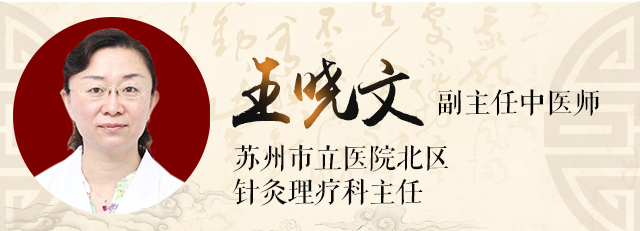
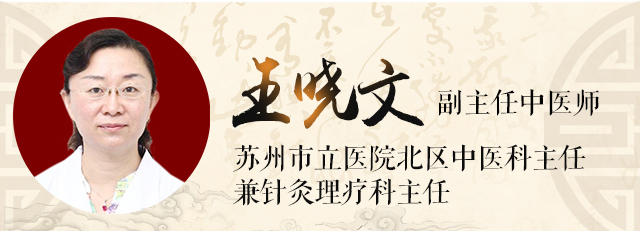
10/10

Changed region(s): [[0.3438, 0.7576, 0.7188, 0.9091], [0.6875, 0.6364, 0.9062, 0.7576]]

diff --git a/zt/1018gf/zj.js b/zt/1018gf/zj.js
@@ -14,10 +14,10 @@ var profile = [
     pinyin: 'wangqingcai',
     name: '王庆才',
     title: '主任中医师',
-    hospital: '苏州大学附属第一医院肿瘤科主任',
+    hospital: '苏州大学附属第一医院肿瘤科原主任',
     skilled: '擅长：恶性肿瘤的中西医结合临床治疗及研究工作。',
     sSkilled: '擅长：恶性肿瘤的中西医结合临床治疗及研究工作',
-    profile: '从医三十余年，兼任中华中医药学会肿瘤专业委员会委员；江苏省中医药学会第七、八届理事会理事；江苏省中医药学会肿瘤专业委员会副主任委员，常务委员；中华医学会江苏分会第四、五届肿瘤专业委员会委员；苏州市医学会肿瘤专业委员会主任委员；苏州市中医学会肿瘤专业委员会主任委员等职。',
+    profile: '从医五十余年，兼任中华中医药学会肿瘤专业委员会委员；江苏省中医药学会第七、八届理事会理事；江苏省中医药学会肿瘤专业委员会副主任委员，常务委员；中华医学会江苏分会第四、五届肿瘤专业委员会委员；苏州市医学会肿瘤专业委员会主任委员；苏州市中医学会肿瘤专业委员会主任委员等职。',
 	time:[{day:'10-18',slot:'上午'}]
   },
   {
@@ -41,20 +41,10 @@ var profile = [
 	time:[{day:'10-18',slot:'上午'}]
   },
   {
-    pinyin: 'wanghaijuan',
-    name: '王海娟',
-    title: '副主任中医师',
-    hospital: '苏州市立医院北区中医内科',
-    skilled: '擅长：运用中医传统与现代医学相结合，诊治消化系、生殖系、呼吸系疾病，对妇科病、老年病、失眠症及中医养生等有较深的造诣。',
-    sSkilled: '擅长：运用中医传统与现代医学相结合，诊治消化系、生殖系、呼吸系疾病，对妇科病、老年病、失眠症及中医养生等有较深的造诣',
-    profile: '毕业于南京中医学院，从事中医专业近四十年。',
-	time:[{day:'10-18',slot:'上午'}]
-  },
-  {
     pinyin: 'qianjun',
     name: '钱军',
     title: '主任医师/教授/硕导',
-    hospital: '江苏省中医院肿瘤科',
+    hospital: '江苏省中医院肿瘤科主任',
     skilled: '擅长：恶性肿瘤的内科治疗，尤其是消化系统肿瘤、乳腺癌和肺癌的中西医结合治疗和恶性肿瘤的放化疗同步治疗。',
     sSkilled: '擅长：恶性肿瘤的内科治疗，尤其是消化系统肿瘤、乳腺癌和肺癌的中西医结合治疗和恶性肿瘤的放化疗同步治疗',
     profile: '毕业于南京大学医学院和南京中医药大学，哈佛医学院访问学者。从事临床肿瘤学医教研工作26年，专业学术期刊发表学术论文近70篇，参与编写专著5部，主持省部级课题7项；江苏省六大人才高峰培养对象，南京军区卫生122工程培养对象和市级卫生重点人才。',
@@ -70,6 +60,16 @@ var profile = [
     profile: '上海市名老中医柏连松教授继承人；上海市名老中医肛肠工作室成员；上海市中医学会肛肠分会副主任委员；《上海市中医病症诊疗常规》编写成员。',
 	time:[{day:'10-18',slot:'上午'}]
   },
+    {
+    pinyin: 'wangyue',
+    name: '王跃',
+    title: '主任中医师',
+    hospital: '孟河医派传承人/南京中医药大学兼职教授',
+    skilled: '擅长：各种内科复杂病症及呼吸系统病症的中西医诊疗，尤其对顽固性咳嗽、支气管哮喘、支气管扩张、肺心病、肺间质纤维化等复杂性肺系疑难病症有深刻的研究，并善于运用中医药膏方治疗名种内科杂病、手术后康复、亚健康状态及肿瘤病人的调理。',
+    sSkilled: '擅长：各种内科复杂病症及呼吸系统病症的中西医诊疗，尤其对顽固性咳嗽、支气管哮喘、支气管扩张、肺心病、肺间质纤维化等复杂性肺系疑难病症有深刻的研究，并善于运用中医药膏方治疗名种内科杂病、手术后康复、亚健康状态及肿瘤病人的调理',
+    profile: '师从徐苇江、何宇林先生，后进入南京中医药大学本科、研究生班学习，并在南京鼓楼医院肺科进修一年。长期在市区二级中医医院工作，曾担任内科主任、业务院长、院长，江苏省中医药学会及中西医学会理事、江苏省中医药学会肺系疾病专业委员会常委、市区医学会及中医药学会副会长等职。',
+	time:[{day:'10-18',slot:'上午'}]
+  },
   {
     pinyin: 'zhuxiongxiong',
     name: '朱雄雄',
@@ -81,16 +81,6 @@ var profile = [
 	time:[{day:'10-18',slot:'上午'},{day:'10-25',slot:'下午'}]
   },
   {
-    pinyin: 'wangyue',
-    name: '王跃',
-    title: '主任中医师',
-    hospital: '孟河医派传承人/南京中医药大学兼职教授',
-    skilled: '擅长：各种内科复杂病症及呼吸系统病症的中西医诊疗，尤其对顽固性咳嗽、支气管哮喘、支气管扩张、肺心病、肺间质纤维化等复杂性肺系疑难病症有深刻的研究，并善于运用中医药膏方治疗名种内科杂病、手术后康复、亚健康状态及肿瘤病人的调理。',
-    sSkilled: '擅长：各种内科复杂病症及呼吸系统病症的中西医诊疗，尤其对顽固性咳嗽、支气管哮喘、支气管扩张、肺心病、肺间质纤维化等复杂性肺系疑难病症有深刻的研究，并善于运用中医药膏方治疗名种内科杂病、手术后康复、亚健康状态及肿瘤病人的调理',
-    profile: '师从徐苇江、何宇林先生，后进入南京中医药大学本科、研究生班学习，并在南京鼓楼医院肺科进修一年。长期在市区二级中医医院工作，曾担任内科主任、业务院长、院长，江苏省中医药学会及中西医学会理事、江苏省中医药学会肺系疾病专业委员会常委、市区医学会及中医药学会副会长等职。',
-	time:[{day:'10-18',slot:'上午'}]
-  },
-  {
     pinyin: 'fuhong',
     name: '符红',
     title: '主任中医师',
@@ -100,26 +90,37 @@ var profile = [
     profile: '南京中医药大学兼职副教授，江苏省中医药学会儿科专业荣誉副主任委员，苏州市中医药学会儿科专业委员会副主任委员。',
 	time:[{day:'10-18',slot:'上午'}]
   },
+    {
+    pinyin: 'feimei',
+    name: '费梅',
+    title: '主任中医师/硕导',
+    hospital: '苏大附一院中西医结合科主任',
+    skilled: '擅长：肾脏病、免疫病以及消化、肿瘤疾病的中西医结合诊治。',
+    sSkilled: '擅长：肾脏病、免疫病以及消化、肿瘤疾病的中西医结合诊治',
+    profile: '苏州大学附属第一医院中西医结合科主任, 苏州大学第一临床医学院中医学教研室副主任(主持),江苏省优秀中青年中医临床人才。中华中医药学会综合医院中医药工作委员会委员，江苏省中西医结合学会理事，江苏省中西医结合学会肾脏病专业委员会委员，江苏省中医药学会内科专业委员会委员。主持江苏省中医药管理局、苏州市科技局课题三项，参与国家十一五课题、省课题四项，主持肾脏病研究获苏州市新技术引进一等奖。',
+	time:[{day:'10-18',slot:'上午'}]
+  },
+    {
+    pinyin: 'gubolin',
+    name: '顾伯林',
+    title: '副主任医师',
+    hospital: '苏大附二院中医科主任',
+    skilled: '擅长：中医治疗癫病、头痛、儿童多动症，肝胆病、哮喘等及肿瘤的中医调养。',
+    sSkilled: '擅长：中医治疗癫病、头痛、儿童多动症，肝胆病、哮喘等',
+    profile: '江苏省中医脑病专业委员会常务委员。从事中医临床工作二十年来，运用中医中药治疗脾胃病、肝胆病、哮喘等疗效显著；对于肿瘤病、血液病放化疗后的中医药调养，有较深的研究；近来运用现代康复技术结合传统中医药方法，对外伤术后、中风后遗症、糖尿病等康复，取得良好疗效。',
+	time:[{day:'10-18',slot:'上午'}]
+  },
   {
     pinyin: 'zhangling',
     name: '张玲',
     title: '主任中医师',
-    hospital: '苏大附一院中西医结合科副主任',
+    hospital: '苏大附一院中西医结合科',
     skilled: '擅长：妇科病、肾脏病、免疫病、肿瘤疾病的中西医结合诊治。',
     sSkilled: '擅长：妇科病、肾脏病、免疫病、肿瘤疾病的中西医结合诊治',
     profile: '苏州市首批中西医结合名医、国家卫生产业联合会亚健康专业委员会常务理事、中华中医药学会亚健康分会第三、四届委员会委员、江苏省中医肾病专业委员会委员、江苏省中西医结合妇产科专业委员会委员、苏州市养生专业委员会副主任委员。参加国家自然基金课题，国家中医药科研项目以及省市级临床科研课题，编写专著五部，获江苏省中医药科技进步奖和苏州市科技进步奖，在中华及省级以上刊物发表论文数十篇。',
 	time:[{day:'10-25',slot:'上午'}]
   },
-  {
-    pinyin: 'feimei',
-    name: '费梅',
-    title: '主任中医师/硕导',
-    hospital: '苏大附一院中西医结合科',
-    skilled: '擅长：肾脏病、免疫病以及消化、肿瘤疾病的中西医结合诊治。',
-    sSkilled: '擅长：肾脏病、免疫病以及消化、肿瘤疾病的中西医结合诊治',
-    profile: '苏州大学附属第一医院中西医结合科科副主任(主持), 苏州大学第一临床医学院中医学教研室副主任(主持),江苏省优秀中青年中医临床人才。中华中医药学会综合医院中医药工作委员会委员，江苏省中西医结合学会理事，江苏省中西医结合学会肾脏病专业委员会委员，江苏省中医药学会内科专业委员会委员。主持江苏省中医药管理局、苏州市科技局课题三项，参与国家十一五课题、省课题四项，主持肾脏病研究获苏州市新技术引进一等奖。',
-	time:[{day:'10-18',slot:'上午'}]
-  },
+
   {
     pinyin: 'fujianying',
     name: '府剑英',
@@ -150,11 +151,21 @@ var profile = [
     profile: '中华医学会中医肿瘤专业委员会委员。主要研究领域为恶性肿瘤的中西医结合治疗及消融治疗，已通过中国医师协会消融规范化治疗考核认证。主持厅市级科研项目1项，参与国家自然科学基金项目2项、省部级科研项目1项。',
 	time:[{day:'10-18',slot:'上午'}]
   },
+    {
+    pinyin: 'wanghaijuan',
+    name: '王海娟',
+    title: '副主任中医师',
+    hospital: '苏州市立医院北区中医内科',
+    skilled: '擅长：运用中医传统与现代医学相结合，诊治消化系、生殖系、呼吸系疾病，对妇科病、老年病、失眠症及中医养生等有较深的造诣。',
+    sSkilled: '擅长：运用中医传统与现代医学相结合，诊治消化系、生殖系、呼吸系疾病，对妇科病、老年病、失眠症及中医养生等有较深的造诣',
+    profile: '毕业于南京中医学院，从事中医专业近四十年。',
+	time:[{day:'10-18',slot:'上午'}]
+  },
   {
     pinyin: 'wangxiaowen',
     name: '王晓文',
     title: '副主任中医师',
-    hospital: '苏州市立医院北区针灸理疗科主任',
+    hospital: '苏州市立医院北区中医科主任兼针灸理疗科主任',
     skilled: '擅长：用中药、针灸、各种物理疗法治疗内、外、妇科等疾病，如：各类风湿关节痛、颈腰椎病、头痛、眩晕、面瘫、中风后遗症、胃肠病、气管炎哮喘、尿失禁、盆腔炎、月经病、不孕症、耳鸣、鼻炎、皮炎、肥胖症等。',
     sSkilled: '擅长：用中药、针灸、各种物理疗法治疗内、外、妇科等疾病，如：各类风湿关节痛、颈腰椎病、头痛、眩晕、面瘫、中风后遗症、胃肠病、气管炎哮喘、尿失禁、盆腔炎、月经病、不孕症、耳鸣、鼻炎、皮炎、肥胖症等',
     profile: '苏州市针灸学会委员、苏州中西医结合学会委员、江苏省针灸学会耳针委员会委员、江苏省针药结合学会委员、江苏省冲击波教育与培训专员委员会常务委员、中国研究型医院学会冲击波专员委员会委员。',
@@ -164,7 +175,7 @@ var profile = [
     pinyin: 'wangaogeng',
     name: '王敖庚',
     title: '副主任中医师',
-    hospital: '',
+    hospital: '苏州同济医院医疗院长',
     skilled: '擅长：中医骨伤科、小儿骨科和老年脊柱、骨关节、骨质疏松等疾病治疗。并善于运用中医膏方治疗颈肩腰腿痛、儿科疾患和亚健康状态调理。',
     sSkilled: '擅长：中医骨伤科、小儿骨科和老年脊柱、骨关节、骨质疏松等疾病治疗。并善于运用中医膏方治疗颈肩腰腿痛、儿科疾患和亚健康状态调理',
     profile: '毕业于南京中医药大学。苏州同济医院医疗院长，省膏方研究专业委员、膏方处方权培训老师，省、市老年病专业委员，市质控中心专家委员。',

diff --git a/js/zjList.js b/js/zjList.js
@@ -1,10 +1,10 @@
 
 
 var department = [
-  '消化内科', '神经内科', '呼吸科 /肺科', '肿瘤科', '肾病/ 内分泌科', '心内科', '普外科', '肛肠科', '乳腺科', '妇科', '泌尿外科', '骨科', '风湿免疫科', '感染病科', '中医科','康复科', '全科医学', '眼科',
+  '中医科','消化内科', '神经内科', '呼吸科 /肺科', '肿瘤科', '肾病/ 内分泌科', '心内科', '普外科', '肛肠科', '乳腺科', '妇科', '泌尿外科', '骨科', '风湿免疫科', '感染病科', '康复科', '全科医学', '眼科',
 ]
 var dpm = [
-  'xh', 'sn', 'hx', 'zl', 'nfm', 'xnk', 'pw', 'gc', 'rx', 'fk', 'nk', 'gk', 'fsmyk', 'grk', 'zyk','kfk', 'jzk', 'yk',
+  'zyk','xh', 'sn', 'hx', 'zl', 'nfm', 'xnk', 'pw', 'gc', 'rx', 'fk', 'nk', 'gk', 'fsmyk', 'grk', 'kfk', 'jzk', 'yk',
 ]
 /* 格式：
  * 名字全拼: ['名字', '科室（需与上面科室相同）', '日期格式 2020-06-06 多个以分号分割'

diff --git a/js/zj.js b/js/zj.js
@@ -523,7 +523,7 @@ var profile = [
     pinyin: 'zhangling',
     name: '张玲',
     title: '主任中医师',
-    hospital: '苏大附一院中西医结合科副主任',
+    hospital: '苏大附一院中西医结合科',
     department: '中医科',
     skilled: '擅长：妇科病、肾脏病、免疫病、肿瘤疾病的中西医结合诊治。',
     sSkilled: '擅长：妇科病、肾脏病、免疫病、肿瘤疾病的中西医结合诊治',
